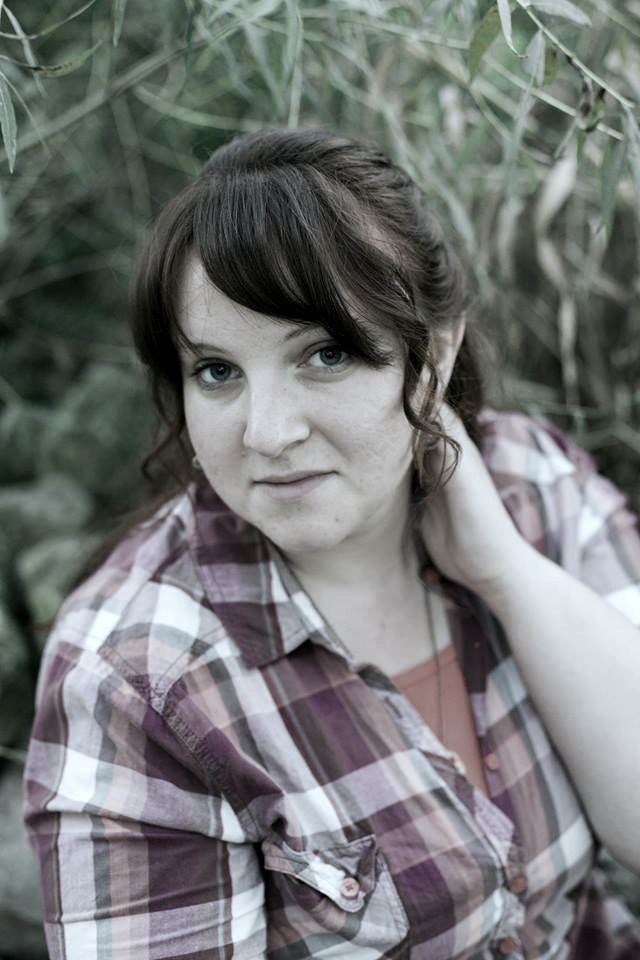
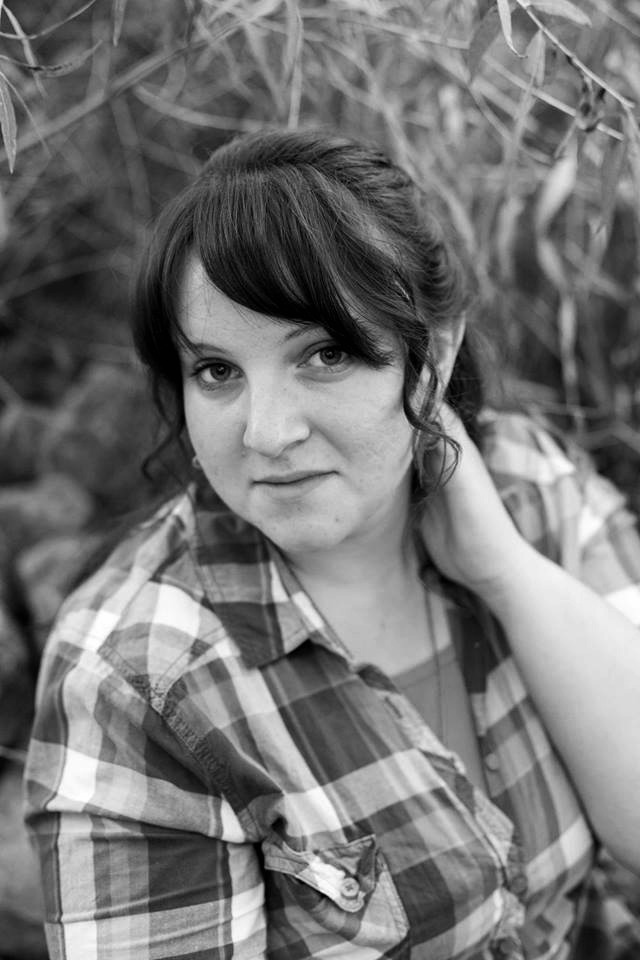
added b&W photo, and styling for photo

Changed region(s): [[0.625, 0.6562, 0.7812, 0.8125], [0.7188, 0.0, 0.7812, 0.0625], [0.8438, 0.0625, 0.875, 0.0938]]

diff --git a/public_html/stylesheets/stylesheet.css b/public_html/stylesheets/stylesheet.css
@@ -14,15 +14,18 @@
 }
 
 .aboutme img {
-	width: 205px;
+	width: 190px;
 	height: 280px;
 	opacity: 1;
 }
 
-
 .social a {
-	font-size: 3.5em;
+	font-size: 1.5em;
 	color: #A2AAB0;
+}
+
+.fab {
+	font-size: 3em;
 }
 
 .table {

diff --git a/public_html/index.php b/public_html/index.php
@@ -21,7 +21,7 @@
 		<section class="aboutme container-fluid font px-3 py-3">
 			<div class="row">
 				<div class="col-md-2 px-2 mx-2">
-					<img class="image-fluid rounded-circle profile" src="image/profileimage.jpg">
+					<img class="image rounded-circle profile" src="image/profileimage%20-%20Copy.jpg" alt="profile picture">
 				</div>
 				<div class="col-md-6 amback py-5">
 					<h2 class="cursive">About Me</h2>
@@ -29,9 +29,9 @@
 				</div>
 				<div class="col-md-3 social text-center py-5">
 					<h2>Check Out My:</h2>
-					<a href="https://github.com/sarahheckendorn"><i class="fab fa-github px-2 py-4"></i></a>
-					<a href="https://www.linkedin.com/in/sarah-heckendorn-0721/"><i class="fab fa-linkedin px-2"></i></a>
-					<a href="https://twitter.com/HeckendornSarah"><i class="fab fa-twitter-square px-2"></i></a>
+					<a class="link" href="https://github.com/sarahheckendorn">Github<i class="fab fa-github"></i></a>
+					<a class="link" href="https://www.linkedin.com/in/sarah-heckendorn-0721/">LinkedIn<i class="fab fa-linkedin px-2"></i></a>
+					<a class="link" href="https://twitter.com/HeckendornSarah">Twitter<i class="fab fa-twitter-square px-2"></i></a>
 				</div>
 			</div>
 		</section>
@@ -66,25 +66,25 @@
 				<div class="card">
 					<p class="card-title">Lorum Ipsum</p>
 					<div class="card-body">
-						<img class="card-img-bottom w-100" src="http://absolute-respiratory.com/wp-content/uploads/2015/01/image-coming-soon.jpg">
+						<img class="card-img-bottom w-100" src="http://absolute-respiratory.com/wp-content/uploads/2015/01/image-coming-soon.jpg" alt="placeholder image">
 					</div>
 				</div>
 				<div class="card">
 					<p class="card-title">Lorum Ipsum</p>
 					<div class="card-body">
-						<img class="card-img-bottom w-100" src="http://absolute-respiratory.com/wp-content/uploads/2015/01/image-coming-soon.jpg">
+						<img class="card-img-bottom w-100" src="http://absolute-respiratory.com/wp-content/uploads/2015/01/image-coming-soon.jpg" alt="placeholder image">
 					</div>
 				</div>
 				<div class="card">
 					<p class="card-title">Lorum Ipsum</p>
 					<div class="card-body">
-						<img class="card-img-bottom w-100" src="http://absolute-respiratory.com/wp-content/uploads/2015/01/image-coming-soon.jpg">
+						<img class="card-img-bottom w-100" src="http://absolute-respiratory.com/wp-content/uploads/2015/01/image-coming-soon.jpg" alt="placeholder image">
 					</div>
 				</div>
 				<div class="card">
 					<p class="card-title">Lorum Ipsum</p>
 					<div class="card-body">
-						<img class="card-img-bottom w-100" src="http://absolute-respiratory.com/wp-content/uploads/2015/01/image-coming-soon.jpg">
+						<img class="card-img-bottom w-100" src="http://absolute-respiratory.com/wp-content/uploads/2015/01/image-coming-soon.jpg" alt="placeholder image">
 					</div>
 				</div>
 			</div>
